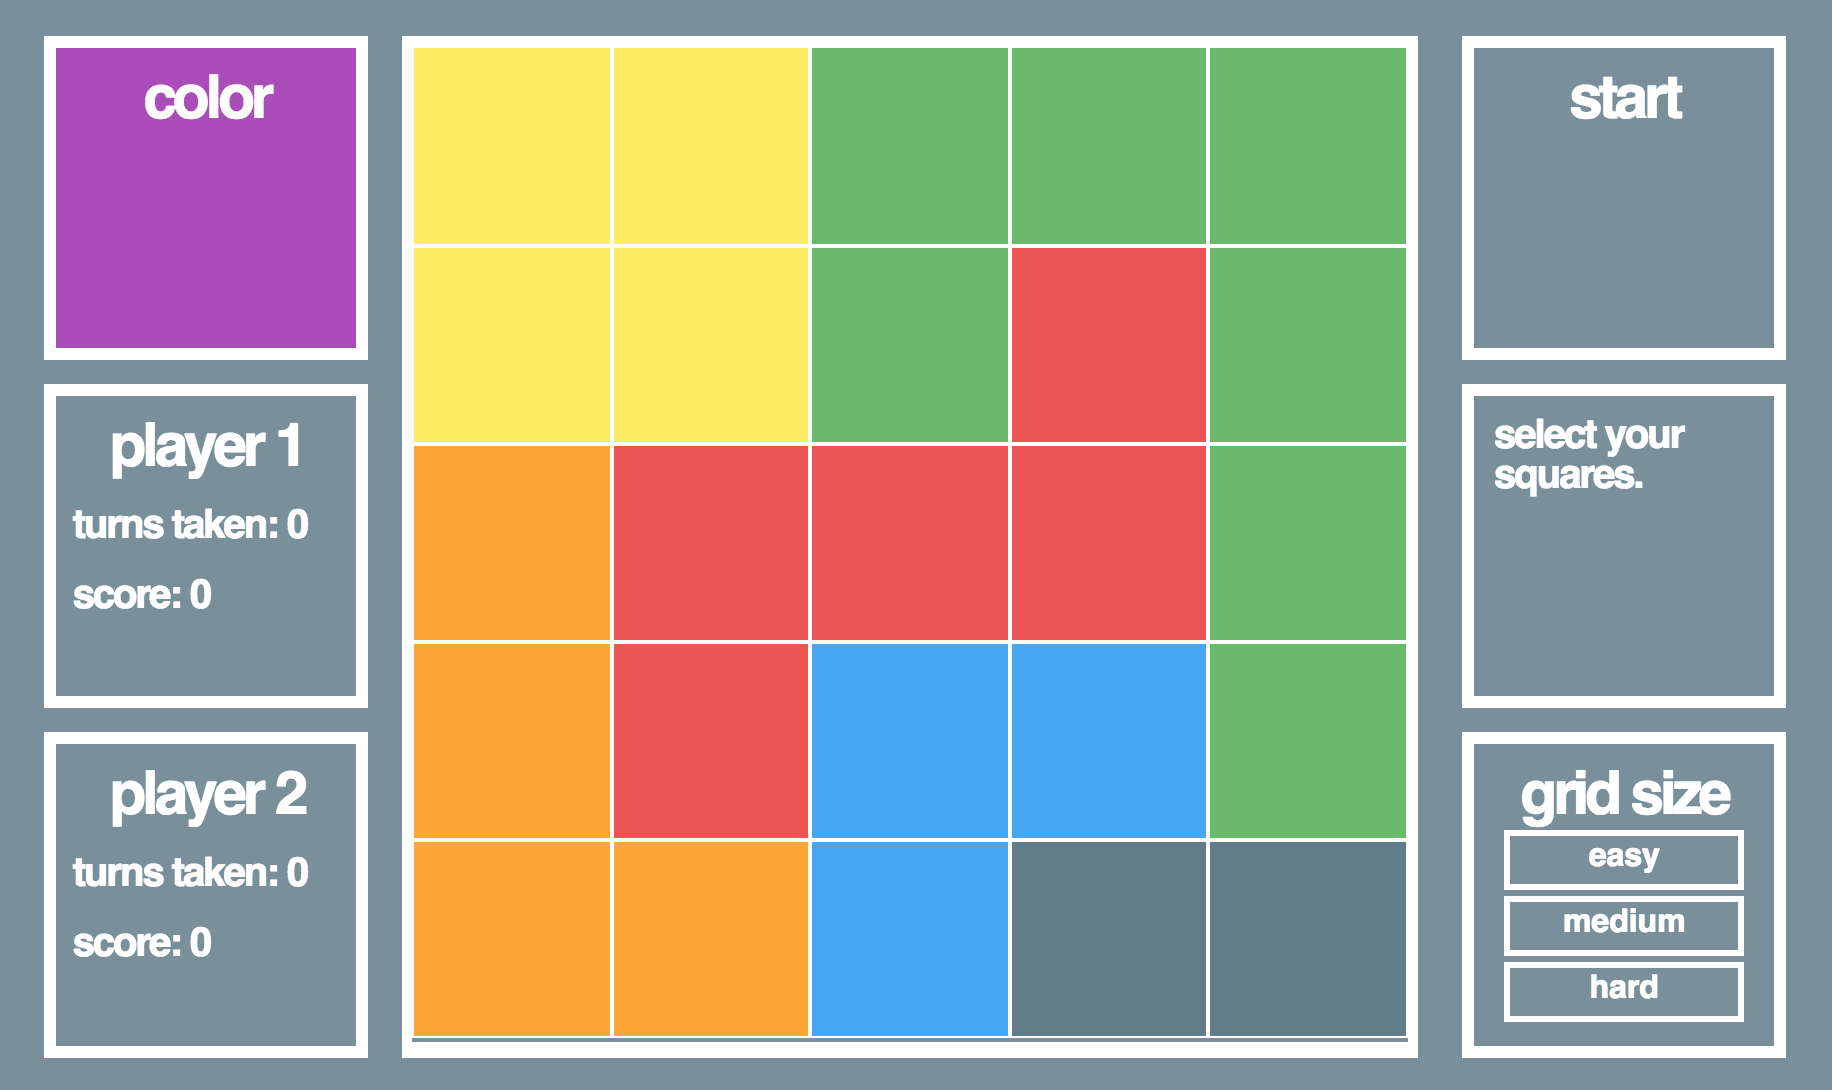
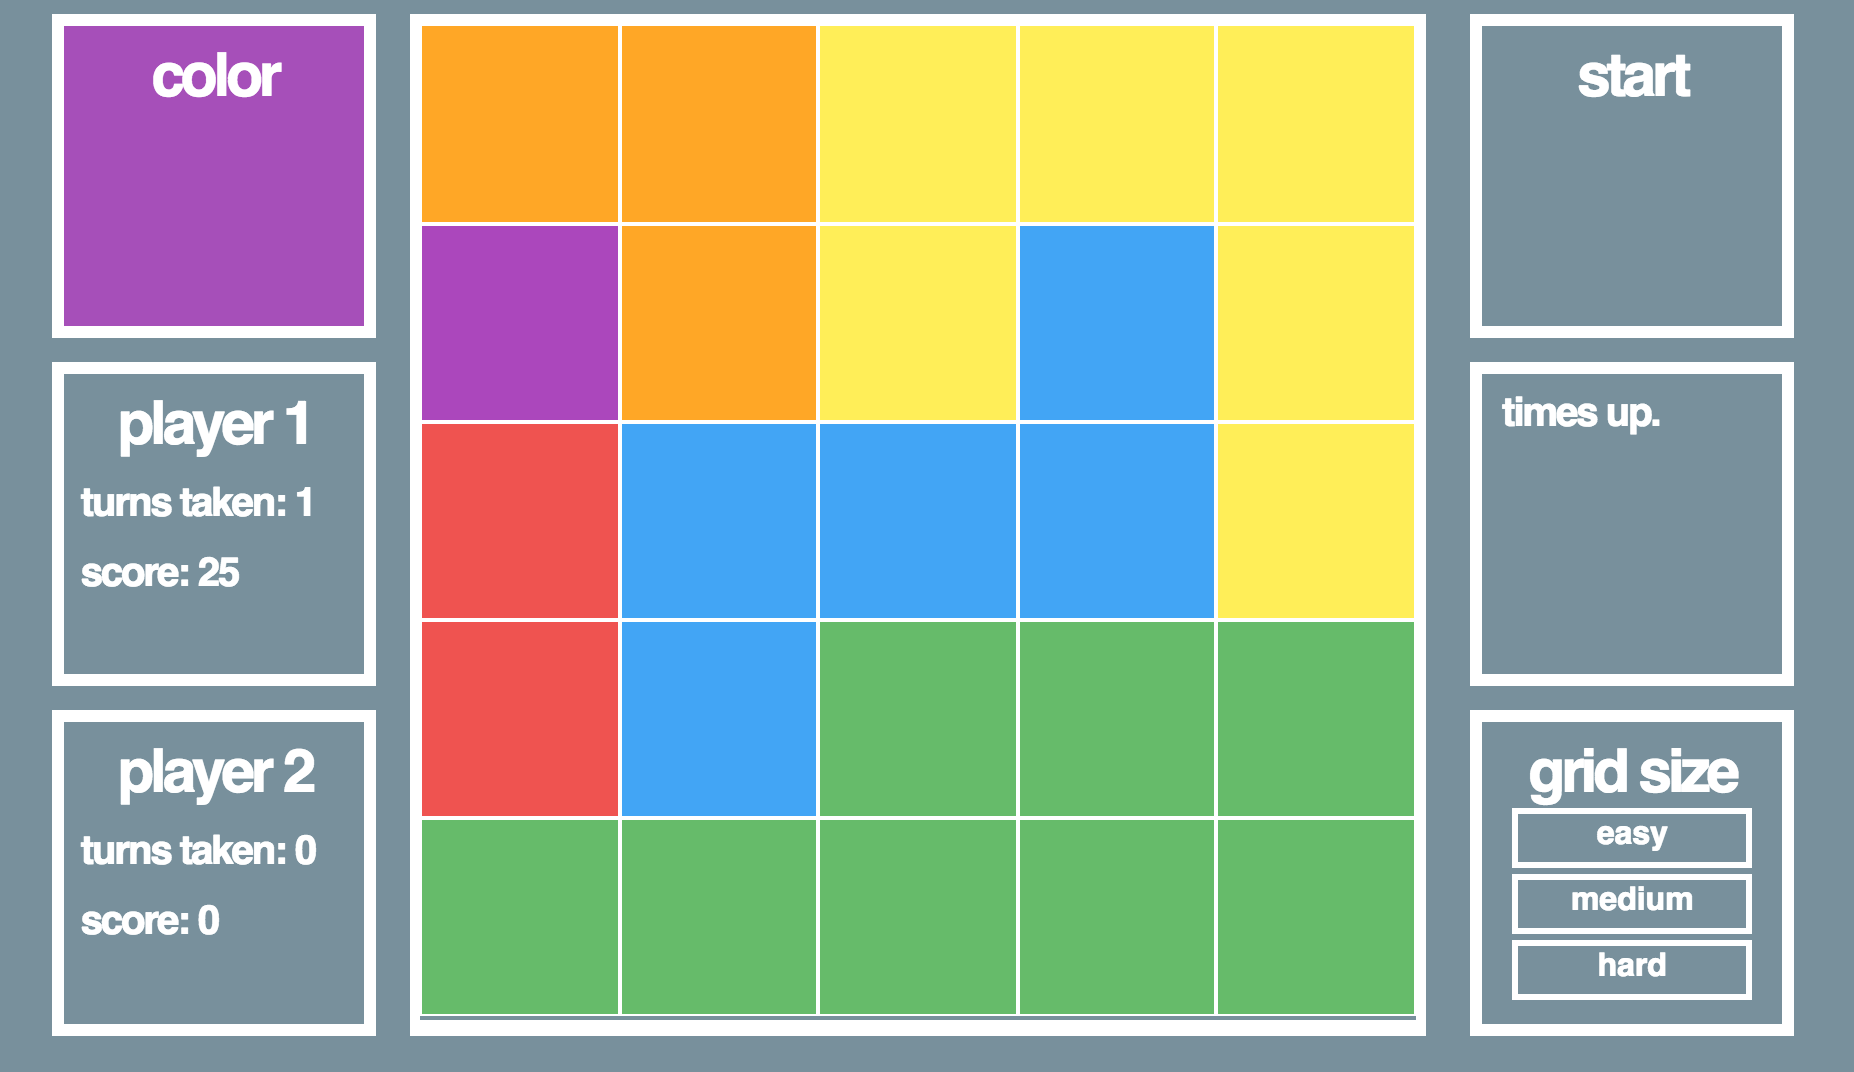
updated readme images

diff --git a/README.md b/README.md
@@ -1,6 +1,6 @@
 # Blick.
-## General Assembly WDI London - Project 1
-### A simple and innovative game for all devices
+### General Assembly WDI London - Project 1
+#### A simple and innovative game for all devices
 
 Blick is an original game design that uses a randomly generated grid of colours to test and improve the players's memory. 
 
@@ -13,7 +13,7 @@ Blick is an original game design that uses a randomly generated grid of colours 
 
 ![alt text](https://github.com/odholden/wdi-first-project/blob/master/images/blick1.png)
 
-### How the game is played
+#### How the game is played
 
 - A randomly generated board of colors, as shown in the image above, will appear for five seconds. 
 - The player will then have to recreate the colour pattern.
@@ -23,18 +23,16 @@ Blick is an original game design that uses a randomly generated grid of colours 
 - The winner is the best of three rounds.
 - The game board size can be altered using the difficulty settings, and can be set at 4 x 4, 5 x 5 and 6 x 6.
 
-![alt text](https://github.com/odholden/wdi-first-project/blob/master/images/blick1.png)
+![alt text](https://github.com/odholden/wdi-first-project/blob/master/images/blick2.png)
 
-### How it works
+#### How it works
 
 Each time the game starts, the colors and their size on the board are both randomised, and entered into the board in a random pattern. This board is shown for five seconds and its combination is stored. The color selector then selects red, green, orange, blue, yellow and purple for five seconds each. 
 
 Once the player has made all their selections, their completed board is compared with the correct one, and they are given a point for each correctly colored square. The board is then reset. 
 
-### How it was designed
+#### How it was designed
 
 The most important element of the design was the randomly generated board, allowing the game to be played repeatedly and keeping the player interested. This element was designed first, and once it became clear how much it appealed visually, the rest of the design fell into place. 
 
-Originally the colours could be selected by the player at their leisure, but this led to a much less engaging game experience. There is some simple animation allowing the colors to fade in and out, but the main aim was to keep the design simple and clean with the emphasis on the game board.
-
-HTML 5, CSS and jQuery were used to create the game.
+Originally the colours could be selected by the player at their leisure, but this led to a much less engaging game experience. There is some simple animation allowing the colors to fade in and out, but the main aim was to keep the design simple and clean with the emphasis on the game board. HTML 5, CSS and jQuery were used to create the game.
